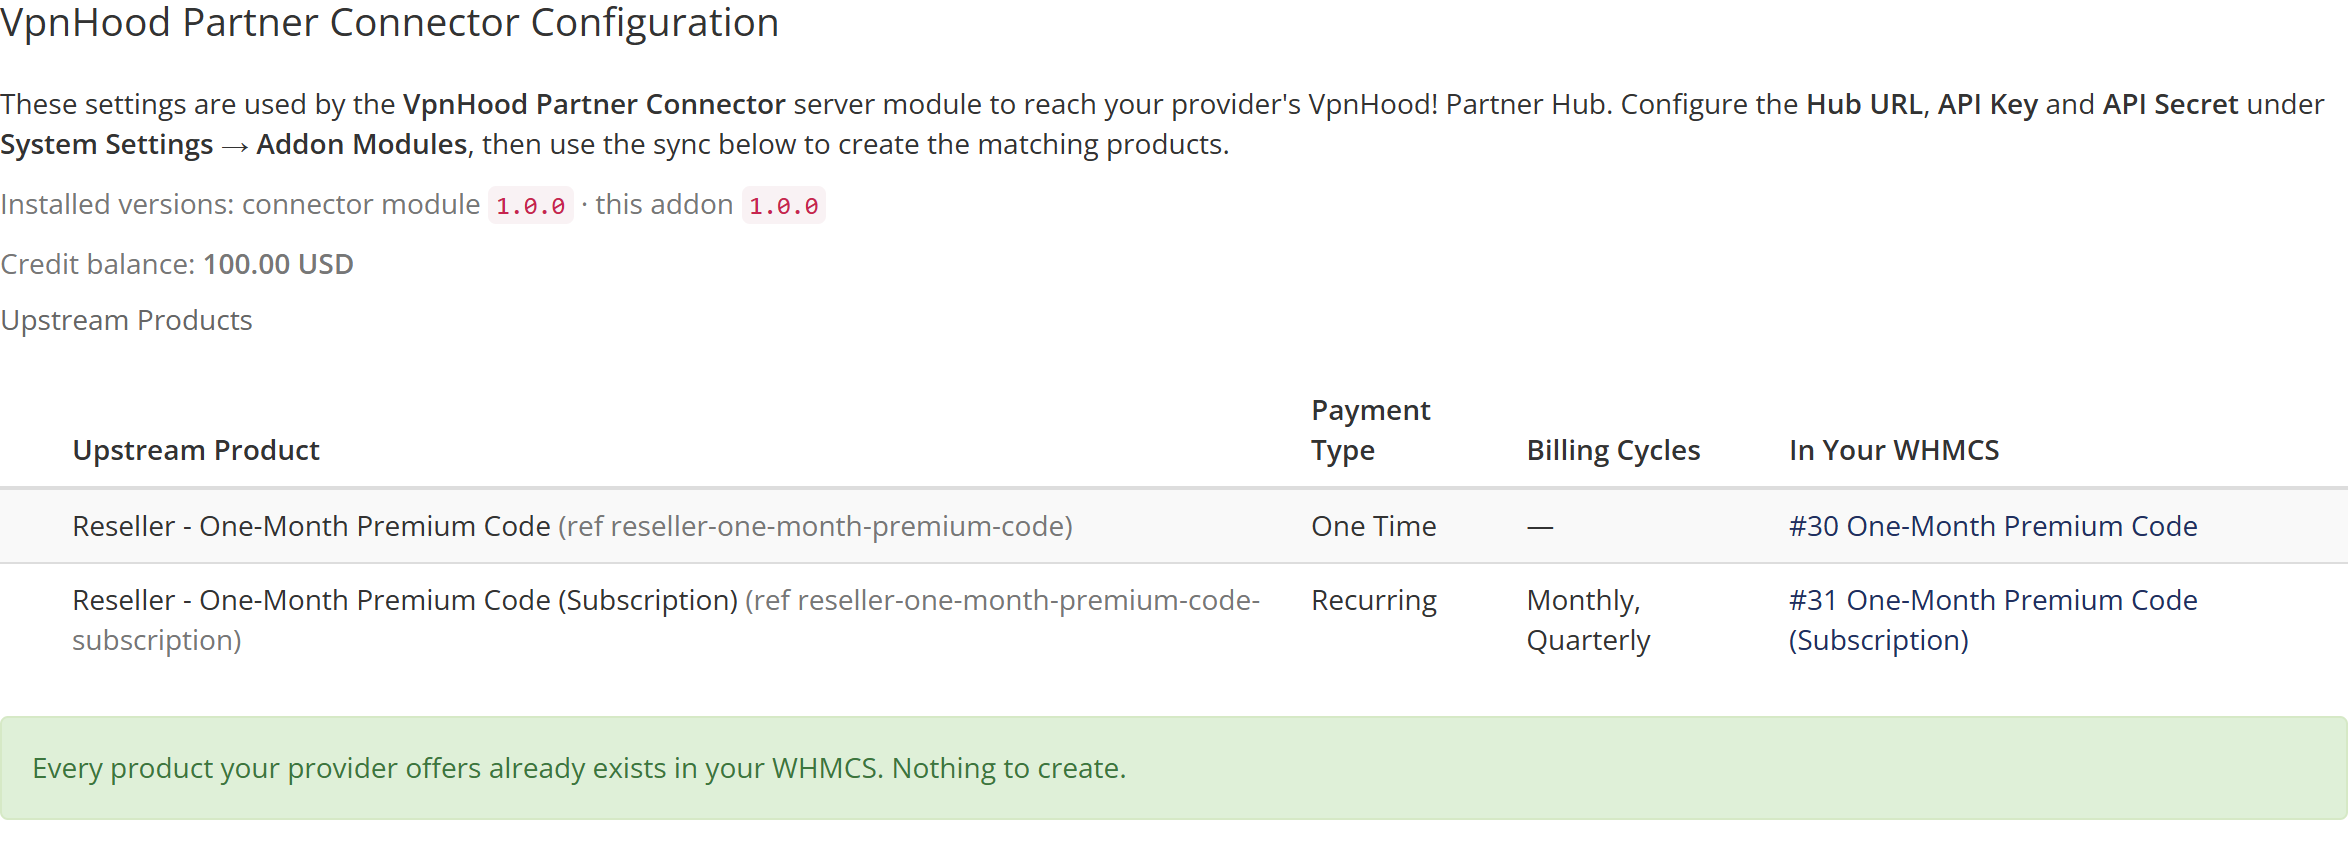
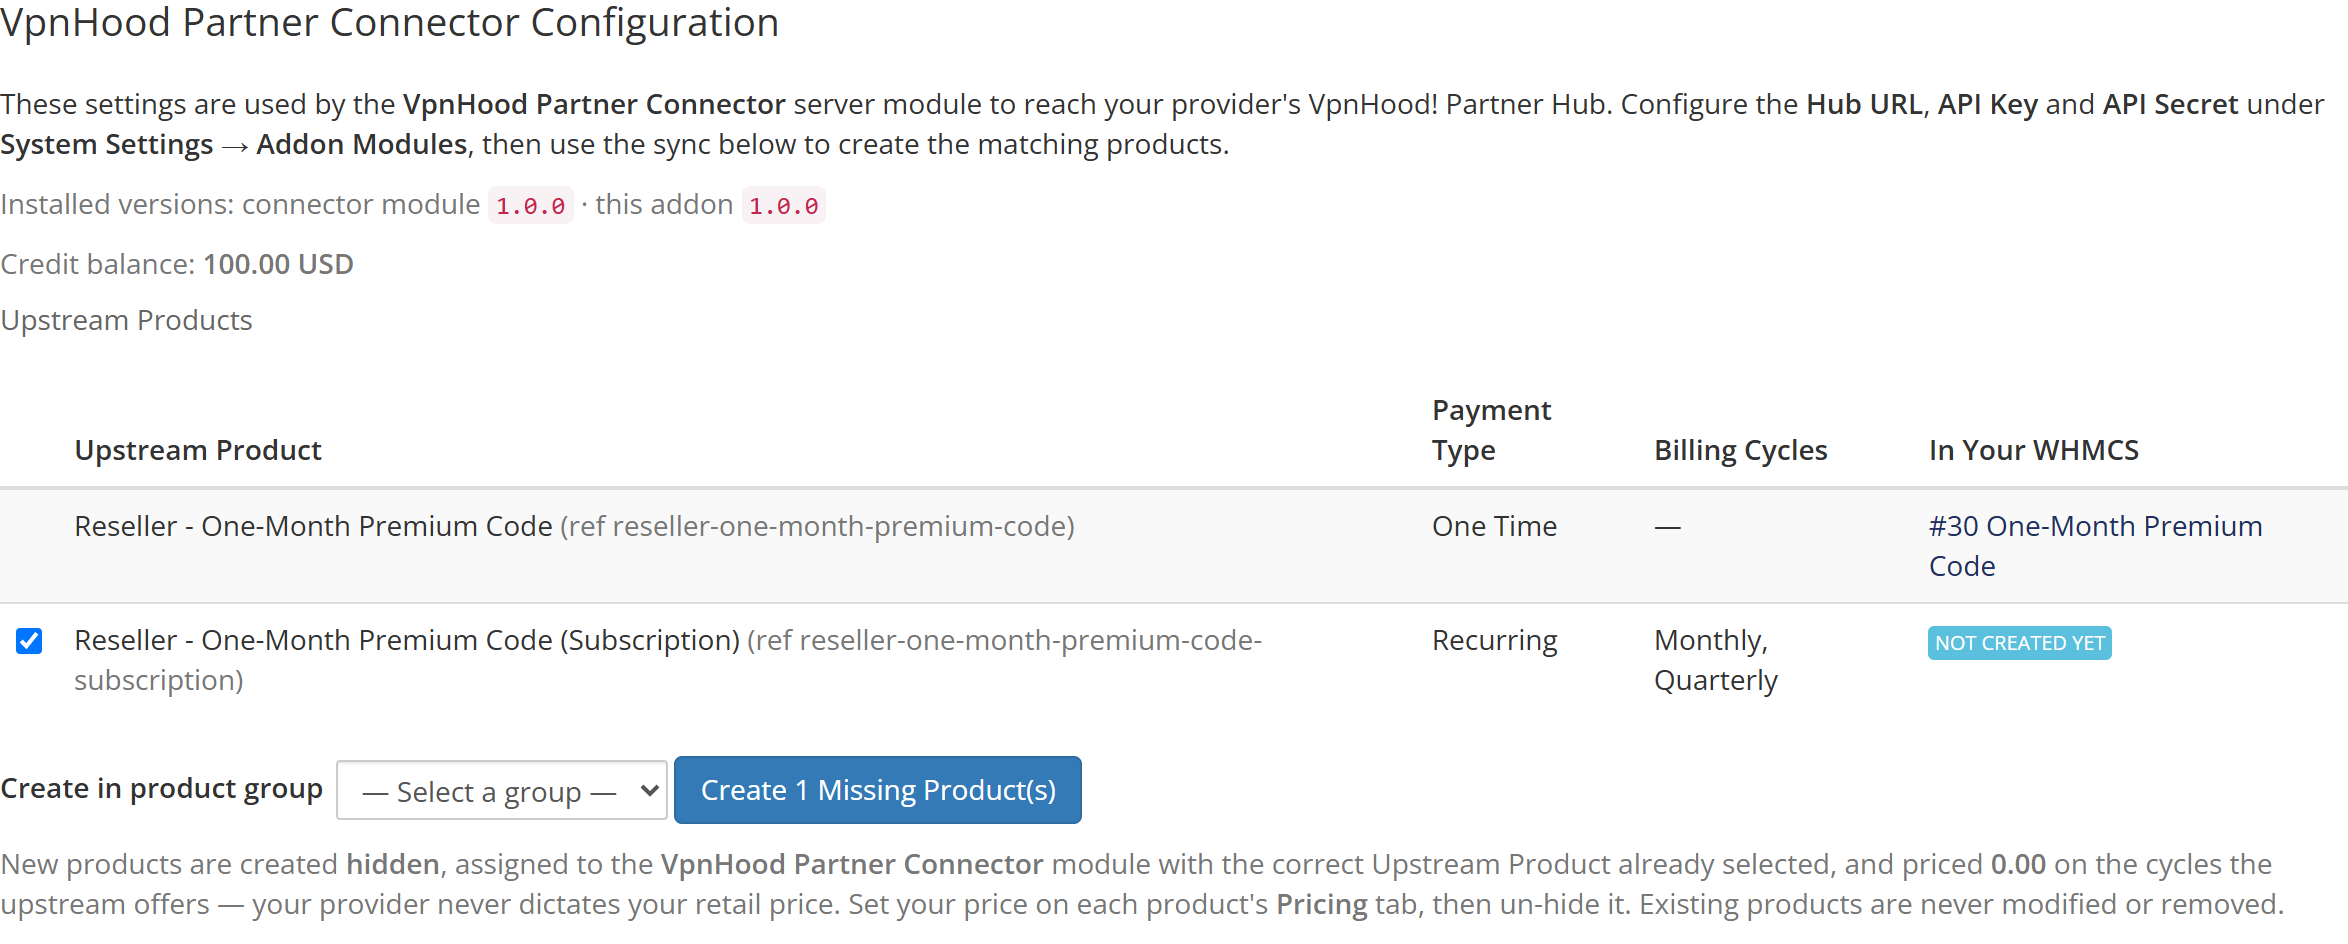
Refactor screenshot capture scripts to improve redaction logic and document missing product state

diff --git a/scripts/capture-screenshots.js b/scripts/capture-screenshots.js
@@ -57,12 +57,21 @@ async function redact(page) {
       });
     }
 
-    // Money -> a neutral example. Walk TEXT NODES: the "Credit balance:" label and the
-    // figure live in different nodes, so keying off the label misses the number.
-    const walker = document.createTreeWalker(document.body, NodeFilter.SHOW_TEXT);
+    // The credit balance -> a neutral example. Scope this to the balance line only.
+    // Replacing every money-shaped string on the page corrupts real documentation: the
+    // sync blurb states products are created "priced 0.00", and a blanket rule rewrote
+    // that to "100.00 USD" — telling partners the exact opposite of what happens.
+    // Walk TEXT NODES within that one element, because the "Credit balance:" label and
+    // the figure itself live in different nodes.
     const money = /\b[\d,]+\.\d{2}(\s*[A-Z]{3})?\b/;
-    for (let n = walker.nextNode(); n; n = walker.nextNode()) {
-      if (money.test(n.nodeValue)) n.nodeValue = n.nodeValue.replace(money, '100.00 USD');
+    const balanceEl = [...document.querySelectorAll('p,div,span,li,td,h1,h2,h3,h4')]
+      .filter(e => /Credit balance/i.test(e.textContent || ''))
+      .sort((a, b) => (a.textContent || '').length - (b.textContent || '').length)[0];
+    if (balanceEl) {
+      const walker = document.createTreeWalker(balanceEl, NodeFilter.SHOW_TEXT);
+      for (let n = walker.nextNode(); n; n = walker.nextNode()) {
+        if (money.test(n.nodeValue)) n.nodeValue = n.nodeValue.replace(money, '100.00 USD');
+      }
     }
 
     // A dev install runs with Skip TLS Verification on. Publishing it ticked would show
@@ -94,8 +103,16 @@ async function assertClean(page, selector, label) {
     (hay.match(/\b[A-Za-z0-9_-]{24,}\b/g) || [])
       .filter(t => !SAFE.test(t))
       .forEach(t => bad.push('token:' + t.slice(0, 12) + '…'));
-    (hay.match(/\b[\d,]+\.\d{2}(\s*[A-Z]{3})?\b/g) || [])
-      .filter(m => !/^100\.00/.test(m)).forEach(m => bad.push('money:' + m));
+    // Money is only sensitive on the credit-balance line. Elsewhere it is ordinary
+    // copy — the sync blurb legitimately says products are created "priced 0.00" — so
+    // flagging every figure on the page just trains you to ignore the warnings.
+    const balanceEl = [...el.querySelectorAll('p,div,span,li,td')]
+      .filter(e => /Credit balance/i.test(e.textContent || ''))
+      .sort((a, b) => (a.textContent || '').length - (b.textContent || '').length)[0];
+    if (balanceEl) {
+      ((balanceEl.textContent || '').match(/\b[\d,]+\.\d{2}(\s*[A-Z]{3})?\b/g) || [])
+        .filter(m => !/^100\.00/.test(m)).forEach(m => bad.push('balance:' + m));
+    }
     if (/whmcs-dev|localhost|127\.0\.0\.1/i.test(hay)) bad.push('non-public host in frame');
     return bad;
   }, selector);
@@ -115,6 +132,84 @@ async function shoot(page, selector, file, label) {
   await el.screenshot({ path: path.join(OUT, file) });
   console.log(`    +   ${file} (${Math.round(fs.statSync(path.join(OUT, file)).size / 1024)} KB)`);
   return clean;
+}
+
+// ------------------------------------------------- rendering the "missing" state
+//
+// The "Create Missing Product(s)" button only renders when some upstream product has no
+// local product yet — vpnhoodpartnerconfig_renderSyncForm() returns early on "Nothing
+// to create". On a fully synced install the button is therefore unreachable.
+//
+// This script is READ ONLY against the WHMCS it captures. It never creates, deletes or
+// repoints a product to force that state: doing so mutates a shared install, and a run
+// that dies half way leaves real data wrong. Instead the same markup the module itself
+// emits for a missing product is rendered into the page before the screenshot.
+//
+// The markup below therefore has to mirror vpnhoodpartnerconfig_renderSyncForm(). If
+// that function's output changes, change this with it, or the screenshot will document
+// a UI that no longer exists.
+async function renderMissingState(page) {
+  return page.evaluate(() => {
+    const table = [...document.querySelectorAll('table')]
+      .find(t => /Upstream Product/i.test(t.innerText));
+    if (!table) return 'no upstream product table';
+    const rows = [...table.querySelectorAll('tbody tr')];
+    if (!rows.length) return 'no product rows';
+
+    // Show the last product as not-yet-created: ticked checkbox + "Not created yet".
+    const row = rows[rows.length - 1];
+    const cells = row.querySelectorAll('td');
+    if (cells.length < 5) return 'unexpected row shape';
+    const ref = (cells[1].textContent.match(/\(ref ([^)]+)\)/) || [])[1] || '';
+    cells[0].innerHTML = `<input type="checkbox" name="refs[]" value="${ref}" checked>`;
+    cells[4].innerHTML = '<span class="label label-info">Not created yet</span>';
+
+    const form = table.closest('form');
+    if (!form) return 'products table is not inside the sync form';
+
+    // The "Nothing to create" notice is what stands where the controls belong.
+    form.querySelectorAll('.alert-success').forEach((el) => {
+      if (/Nothing to create/i.test(el.textContent || '')) el.remove();
+    });
+
+    const controls = document.createElement('div');
+    controls.className = 'form-inline';
+    controls.style.marginBottom = '10px';
+    controls.innerHTML =
+      '<label style="margin-right:6px">Create in product group</label>'
+      + '<select name="gid" class="form-control" required>'
+      + '<option value="">— Select a group —</option></select> '
+      + '<button type="submit" class="btn btn-primary">Create 1 Missing Product(s)</button>';
+
+    const note = document.createElement('p');
+    note.className = 'text-muted';
+    note.innerHTML =
+      'New products are created <b>hidden</b>, assigned to the <b>VpnHood Partner Connector</b>'
+      + ' module with the correct Upstream Product already selected, and priced <b>0.00</b> on the'
+      + ' cycles the upstream offers — your provider never dictates your retail price. Set your'
+      + " price on each product's <b>Pricing</b> tab, then un-hide it. Existing products are never"
+      + ' modified or removed.';
+
+    form.appendChild(controls);
+    form.appendChild(note);
+    return null;
+  });
+}
+
+async function openProductModuleTab(page, id) {
+  await page.goto(`${BASE}/admin/configproducts.php?action=edit&id=${id}`, { waitUntil: 'networkidle' });
+  await page.waitForTimeout(1200);
+  if (await passSudo(page)) {
+    await page.goto(`${BASE}/admin/configproducts.php?action=edit&id=${id}`, { waitUntil: 'networkidle' });
+    await page.waitForTimeout(1800);
+  }
+  // The Module Settings pane only populates once its tab is opened.
+  await page.evaluate(() => {
+    const a = [...document.querySelectorAll('a')]
+      .find(x => /Module Settings/i.test(x.textContent) && (x.getAttribute('href') || '').startsWith('#'));
+    if (a) a.click();
+  });
+  await page.waitForTimeout(2500);
 }
 
 // WHMCS puts a second password prompt in front of some admin areas (Products/Services
@@ -198,21 +293,44 @@ async function passSudo(page) {
 
   // ---- 3. The addon's own page
   console.log('3. Connector addon page');
-  await page.goto(`${BASE}/admin/addonmodules.php?module=vpnhoodpartnerconfig`, { waitUntil: 'networkidle' });
-  await page.waitForTimeout(2500);
+  const gotoAddon = async () => {
+    await page.goto(`${BASE}/admin/addonmodules.php?module=vpnhoodpartnerconfig`, { waitUntil: 'networkidle' });
+    await page.waitForTimeout(2500);
+  };
+  const nothingToCreate = () =>
+    page.evaluate(() => /Nothing to create/i.test(document.body.innerText));
+
+  await gotoAddon();
   const productId = PRODUCT_ID || await page.evaluate(() => {
     const a = [...document.querySelectorAll('a')]
       .find(x => /configproducts\.php\?action=edit&id=\d+/.test(x.getAttribute('href') || ''));
     return a ? a.getAttribute('href').match(/id=(\d+)/)[1] : '';
   });
-  await redact(page);
-  await page.evaluate(() => {
-    const h = [...document.querySelectorAll('h1,h2,h3')].find(x => /Upstream Products/i.test(x.textContent));
-    const el = h ? (h.closest('div') || h.parentElement) : document.querySelector('#contentarea');
-    if (el) { el.id = 'shot-addon'; el.scrollIntoView({ block: 'center' }); }
-  });
-  await page.waitForTimeout(400);
-  allClean &= await shoot(page, '#shot-addon', '03-addon-page.png', 'addon page');
+
+  const captureAddon = async () => {
+    await redact(page);
+    await page.evaluate(() => {
+      const h = [...document.querySelectorAll('h1,h2,h3')].find(x => /Upstream Products/i.test(x.textContent));
+      const el = h ? (h.closest('div') || h.parentElement) : document.querySelector('#contentarea');
+      if (el) { el.id = 'shot-addon'; el.scrollIntoView({ block: 'center' }); }
+    });
+    await page.waitForTimeout(400);
+    return shoot(page, '#shot-addon', '03-addon-page.png', 'addon page');
+  };
+
+  if (await nothingToCreate()) {
+    // Fully synced, so the sync controls are not on the page. Render them the way the
+    // module does for a missing product — no data is touched to bring that state about.
+    const problem = await renderMissingState(page);
+    if (problem) {
+      console.log(`    !! could not render the missing-product state: ${problem}`);
+      console.log('       capturing the page as-is; the Create button will not be in the shot');
+      allClean = false;
+    } else {
+      console.log('    (rendered the "1 missing product" state — install untouched)');
+    }
+  }
+  allClean &= await captureAddon();
 
   // ---- 4. A product's Module Settings tab
   console.log(`4. Product Module Settings tab (product ${productId || '?'})`);

diff --git a/docs/DEVELOPMENT.md b/docs/DEVELOPMENT.md
@@ -335,6 +335,21 @@ text and reports anything suspicious. Treat that as a safety net, not a substitu
 looking at the images — it has caught a real leak (a credit balance whose label and
 figure live in different DOM nodes) that a glance would have missed.
 
+**The script never writes to the WHMCS it captures.** That matters for one shot in
+particular: `Create Missing Product(s)` only renders when an upstream product has no
+local product yet (`vpnhoodpartnerconfig_renderSyncForm` returns early on "Nothing to
+create"), so on a synced install the button is unreachable. Rather than create, delete
+or repoint products to force that state — which mutates a shared install and leaves real
+data wrong if a run dies half way — the script renders the same markup the module itself
+emits for a missing product. **That markup must mirror `vpnhoodpartnerconfig_renderSyncForm()`**;
+if the function's output changes, change `renderMissingState()` with it, or the
+screenshot will document a UI that no longer exists.
+
+Redaction is deliberately *narrow*. An early version replaced every money-shaped string
+on the page and rewrote the sync blurb's "priced **0.00**" into "100.00 USD" — telling
+partners the opposite of what the module does. Only the credit-balance line is
+neutralised now, and the leak scan checks money only there for the same reason.
+
 The Hub URL placeholder in the script must stay in step with the `Default` of the
 `HubUrl` field in `vpnhoodpartnerconfig.php`, or the screenshot will show partners a
 value their install does not have.

diff --git a/README.md b/README.md
@@ -52,14 +52,6 @@ VpnHood will give you:
    Leave **Skip TLS Verification** un-ticked — it is for development against a
    self-signed Hub and must never be enabled on a live store.
 
-Every release also publishes a
-[checksum](https://github.com/vpnhood/VpnHood.WHMCS.Partner/releases/latest/download/vpnhoodpartner.zip.sha256).
-To check the download before you upload it, put both files in the same folder and run:
-
-```sh
-sha256sum -c vpnhoodpartner.zip.sha256
-```
-
 ## Updating
 
 Download the new zip and repeat steps 1–3. Extracting over the top replaces the module files and
